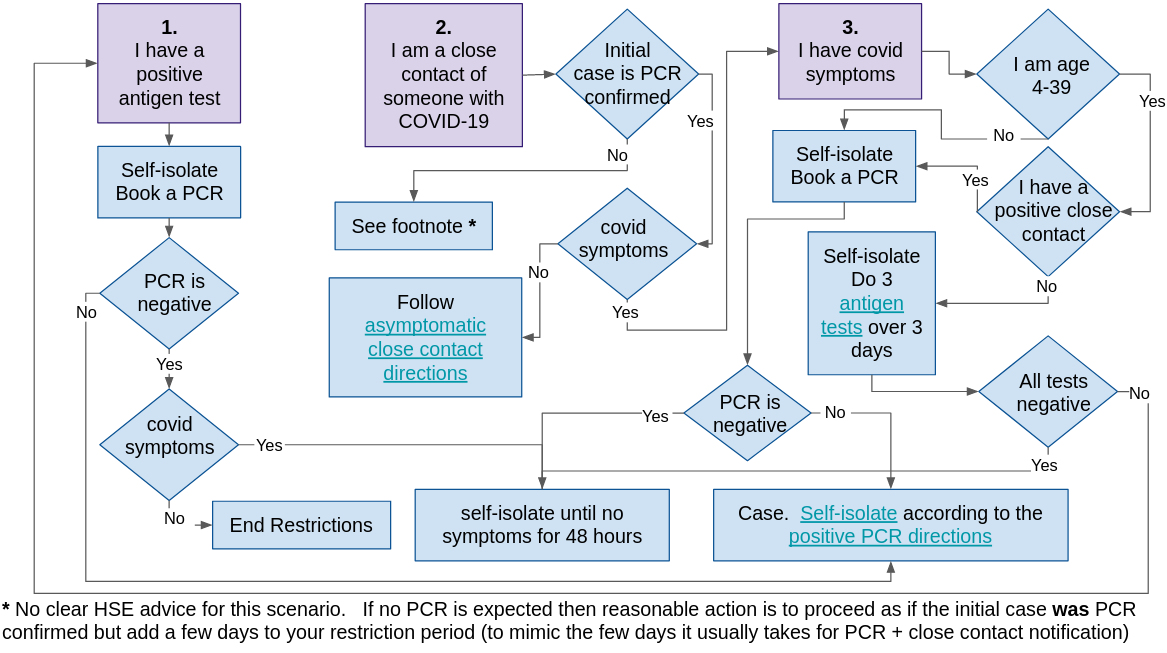
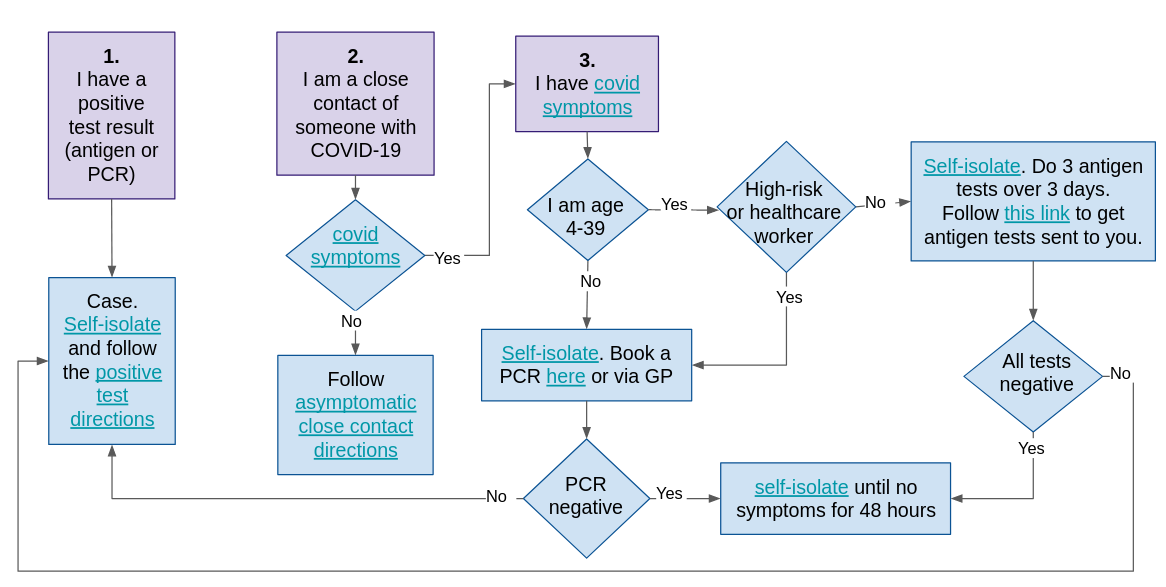
related to flowchart updates

diff --git a/index.html b/index.html
@@ -51,9 +51,8 @@
     <div class="content_resize">
      
       
-
-          <h1>This website is currently being updated to reflect new guidelines of 14th Jan 2022.  Please check back soon.</h1>
             <h2>A visual guide to HSE guidelines for COVID-19 Testing and Isolation in Ireland</h2>
+            <h2>Updated to latest guidelines 16th Jan 2022</h2>
             <p> Please note if you are considered at high-risk or if you are a healthcare worker different rules may apply.  Please consult your GP or employer in that case. </p>
             <p><h3>To get started choose the purple box in the flowchart below that applies to you.  If more than one purple box applies to you, choose the first (lowest numbered) one that applies.</h3></p>
             <div id="pageContainer" class="pdfViewer singlePageView" data-file="home_flowchart.pdf"></div>

diff --git a/close_contact_no_symptoms.html b/close_contact_no_symptoms.html
@@ -49,10 +49,9 @@
   <div class="content">
     <div class="content_resize">
      
-      
 
-          <h1>This website is currently being updated to reflect new guidelines of 14th Jan 2022.  Please check back soon.</h1>
             <h2>A guide to HSE guidelines for COVID-19 Testing and Isolation in Ireland</h2>
+            <h2>Updated to latest guidelines 16th Jan 2022</h2>
             <p> Please note if you are considered at high-risk or if you are a healthcare worker different rules may apply.  Please consult your GP or employer in that case. </p>
             <p><h3>Flowchart for people who are close contacts of a COVID-19 case but have no symptoms</h3></p>
             <div id="pageContainer" class="pdfViewer singlePageView" data-file="close_contact_no_symptoms.pdf"></div>

diff --git a/pos_test.html b/pos_test.html
@@ -50,9 +50,8 @@
     <div class="content_resize">
      
       
-
-          <h1>This website is currently being updated to reflect new guidelines of 14th Jan 2022.  Please check back soon.</h1>
             <h2>A guide to HSE guidelines for COVID-19 Testing and Isolation in Ireland</h2>
+            <h2>Updated to latest guidelines 16th Jan 2022</h2>
             <p><h3>Flowchart for people who have received a positive antigen or PCR result</h3></p>
             <div id="pageContainer" class="pdfViewer singlePageView" data-file="pos_test.pdf"></div>
          
